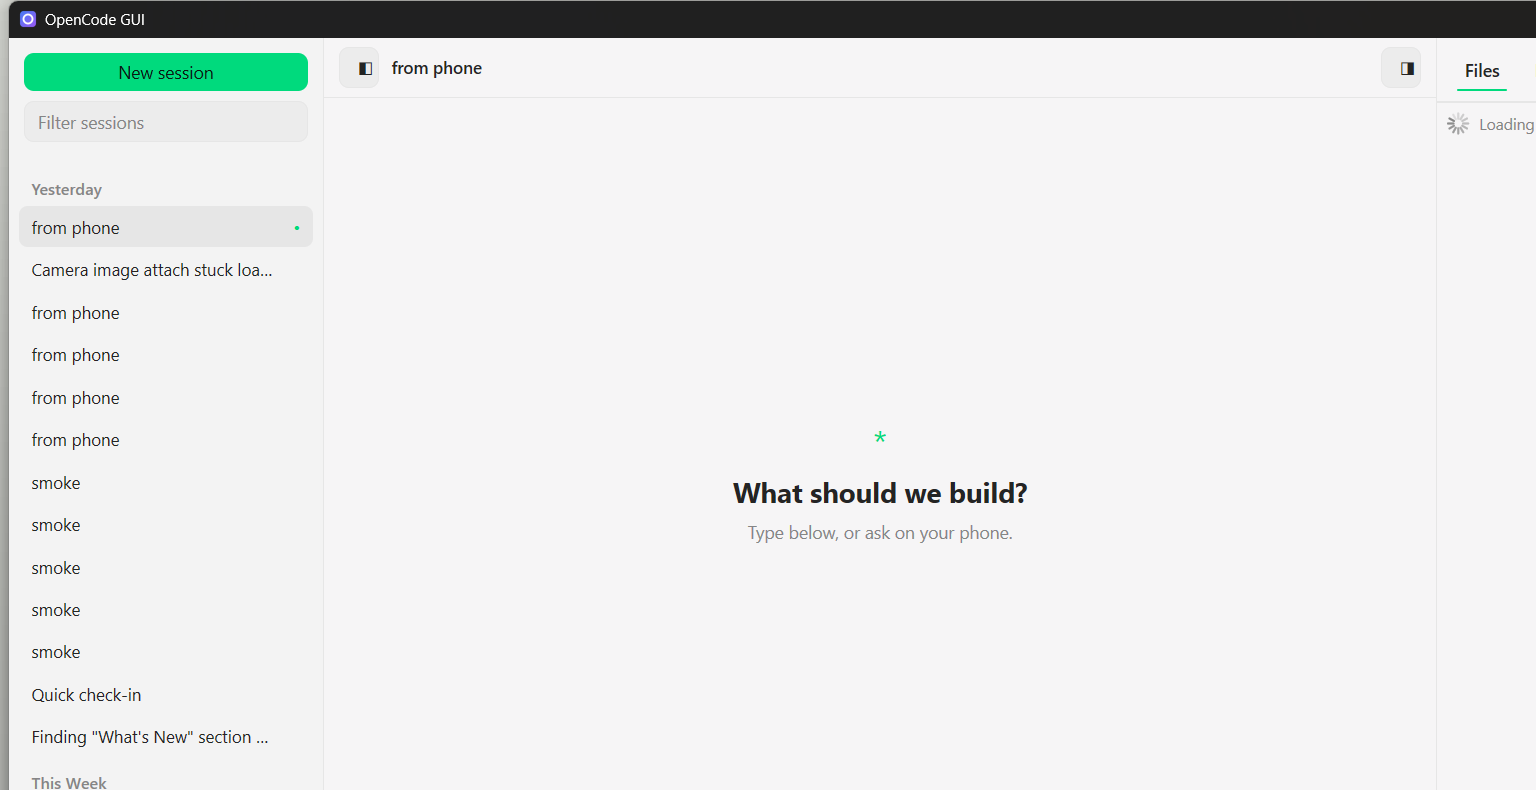
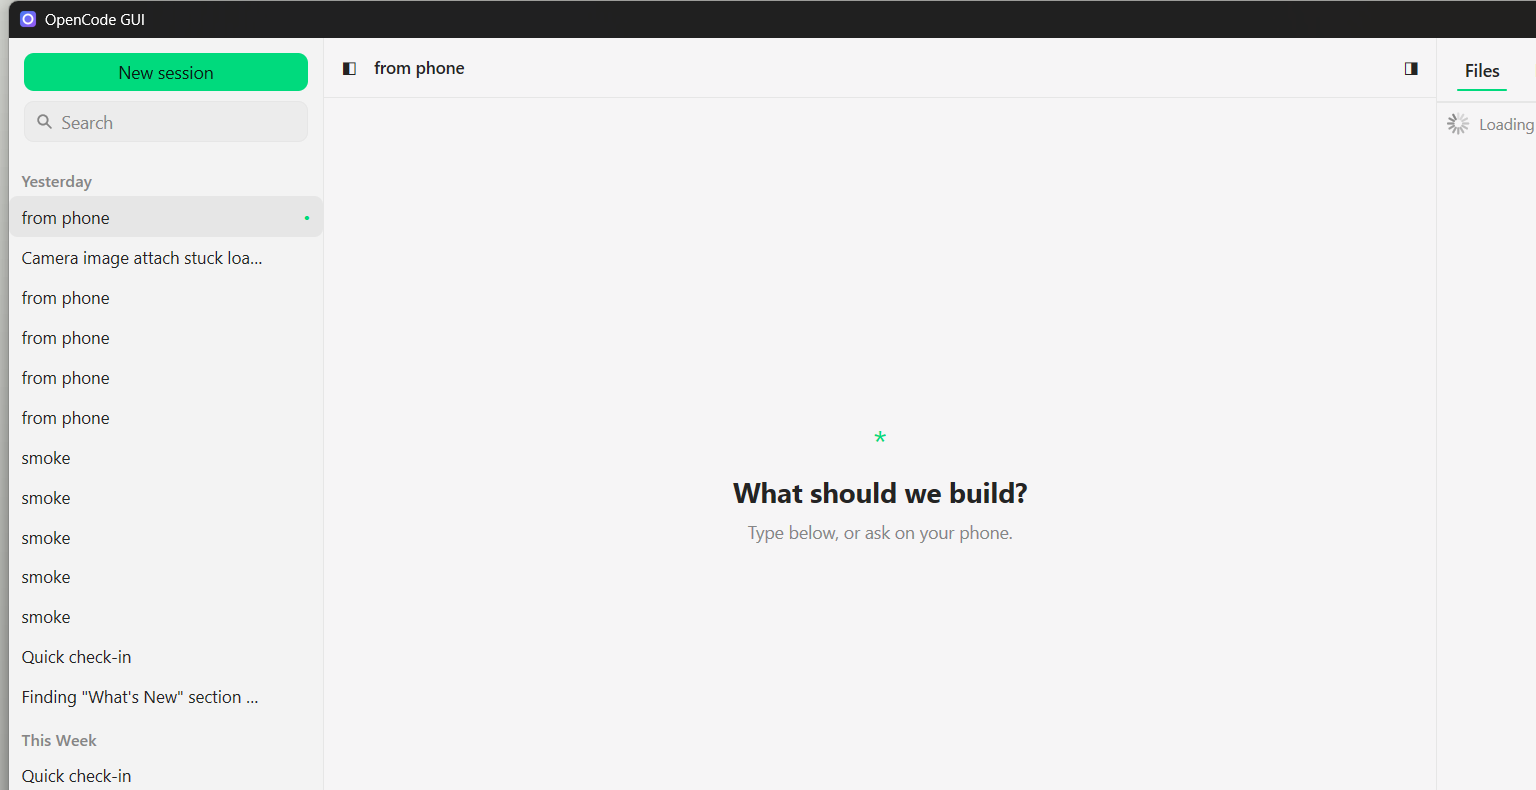
refactor(ui): sidebar List (virtualized) + Toolbar for the top bar; all framework components, no hand-rolled equivalents

diff --git a/main.go b/main.go
@@ -44,6 +44,7 @@ type state struct {
 	tab     int // inspector tab: 0 diff, 1 files
 
 	sidebarWidth   float32
+	sidebarList    ui.ListState
 	chatList       ui.ListState
 	md             markdown.Options
 	diffState      *editor.DiffState
@@ -306,48 +307,51 @@ func (st *state) sidebar(c *ui.Context, t *ui.Theme, width float32) {
 				ui.SearchField(c, &st.filter).Label("Filter sessions").FillWidth()
 			})
 
-			ui.Scroll(c).Grow(1).Children(func() {
-				ui.Column(c).Gap(2).Padding(6, 8, 12).Children(func() {
-					shown := 0
-					group := ""
-					for _, s := range sessions {
-						title := sessionLabel(s)
-						if query != "" && !strings.Contains(strings.ToLower(title), strings.ToLower(query)) {
-							continue
-						}
-						shown++
-
-						// A group header whenever the bucket changes, as the
-						// reference app's Today / Yesterday / This Week rows.
-						if g := sessionGroup(s); g != group {
-							group = g
-							ui.Text(c, g).FontSize(13).FontWeight(500).
-								TextColor(t.TextMuted).Padding(10, 10, 4)
-						}
-
-						row := ui.Row(c).Radius(7).Padding(7, 10).Gap(6).
-							AlignItems(ui.Center)
-						row.Children(func() {
-							ui.Text(c, truncate(title, 30)).FontSize(13.5).Grow(1).
-								MaxLines(1).Ellipsis("…")
-							if s.ID == sel {
-								ui.Text(c, "•").TextColor(t.Accent)
-							}
-						})
-						if row.Hovered() {
-							row.Background(itemBg(t))
-						}
-						if s.ID == sel {
-							row.Background(itemBg(t))
-						}
-						if row.Clicked() {
-							st.selectSession(s.ID)
-						}
-					}
-					if shown == 0 {
-						ui.Text(c, "No sessions").FontSize(13).TextColor(t.TextMuted).Padding(8)
+			// The session list is a List, which builds only the rows in view,
+			// so a long history stays cheap.
+			visible := make([]opencode.Session, 0, len(sessions))
+			for _, s := range sessions {
+				if query != "" &&
+					!strings.Contains(strings.ToLower(sessionLabel(s)), strings.ToLower(query)) {
+					continue
+				}
+				visible = append(visible, s)
+			}
+			st.sidebarList.Key = func(i int) any {
+				if i < len(visible) {
+					return visible[i].ID
+				}
+				return i
+			}
+			ui.List(c, &st.sidebarList, len(visible), func(i int) {
+				s := visible[i]
+				// A group header whenever the bucket changes, as the reference
+				// app's Today / Yesterday / This Week rows.
+				if g := sessionGroup(s); i == 0 || g != sessionGroup(visible[i-1]) {
+					ui.Text(c, g).FontSize(13).FontWeight(500).
+						TextColor(t.TextMuted).Padding(10, 10, 4)
+				}
+				row := ui.Row(c).Radius(7).Padding(7, 10).Gap(6).AlignItems(ui.Center)
+				row.Children(func() {
+					ui.Text(c, truncate(sessionLabel(s), 30)).FontSize(13.5).Grow(1).
+						MaxLines(1).Ellipsis("…")
+					if s.ID == sel {
+						ui.Text(c, "•").TextColor(t.Accent)
 					}
 				})
+				if row.Hovered() {
+					row.Background(itemBg(t))
+				}
+				if s.ID == sel {
+					row.Background(itemBg(t))
+				}
+				if row.Clicked() {
+					st.selectSession(s.ID)
+				}
+			}).Grow(1).Children(func() {
+				if len(visible) == 0 {
+					ui.Text(c, "No sessions").FontSize(13).TextColor(t.TextMuted).Padding(8)
+				}
 			})
 
 			ui.Column(c).Gap(6).Padding(12).
@@ -461,14 +465,13 @@ func (st *state) toolbar(c *ui.Context, t *ui.Theme) {
 	active := st.active
 	st.mu.Unlock()
 
-	ui.Row(c).Gap(10).Padding(10, 12).AlignItems(ui.Center).Height(48).
-		BorderWidth(0, 0, 1, 0).BorderColor(t.Border).Children(func() {
+	ui.Toolbar(c, func() {
 		// Top-left: expand/collapse the left panel.
 		leftGlyph := "◧"
 		if st.leftCollapsed {
 			leftGlyph = "▣"
 		}
-		if ui.Button(c, leftGlyph).Width(32).Clicked() {
+		if ui.Button(c, leftGlyph).Label("Toggle left panel").Clicked() {
 			st.leftCollapsed = !st.leftCollapsed
 		}
 
@@ -497,11 +500,12 @@ func (st *state) toolbar(c *ui.Context, t *ui.Theme) {
 		if st.rightCollapsed {
 			rightGlyph = "▣"
 		}
-		if ui.Button(c, rightGlyph).Width(32).Clicked() {
+		if ui.Button(c, rightGlyph).Label("Toggle right panel").Clicked() {
 			st.tab = 0
 			st.rightCollapsed = !st.rightCollapsed
 		}
-	})
+	}).FillWidth().Height(48).
+		BorderWidth(0, 0, 1, 0).BorderColor(t.Border)
 }
 
 // chat renders the message list, or the centered empty state.
